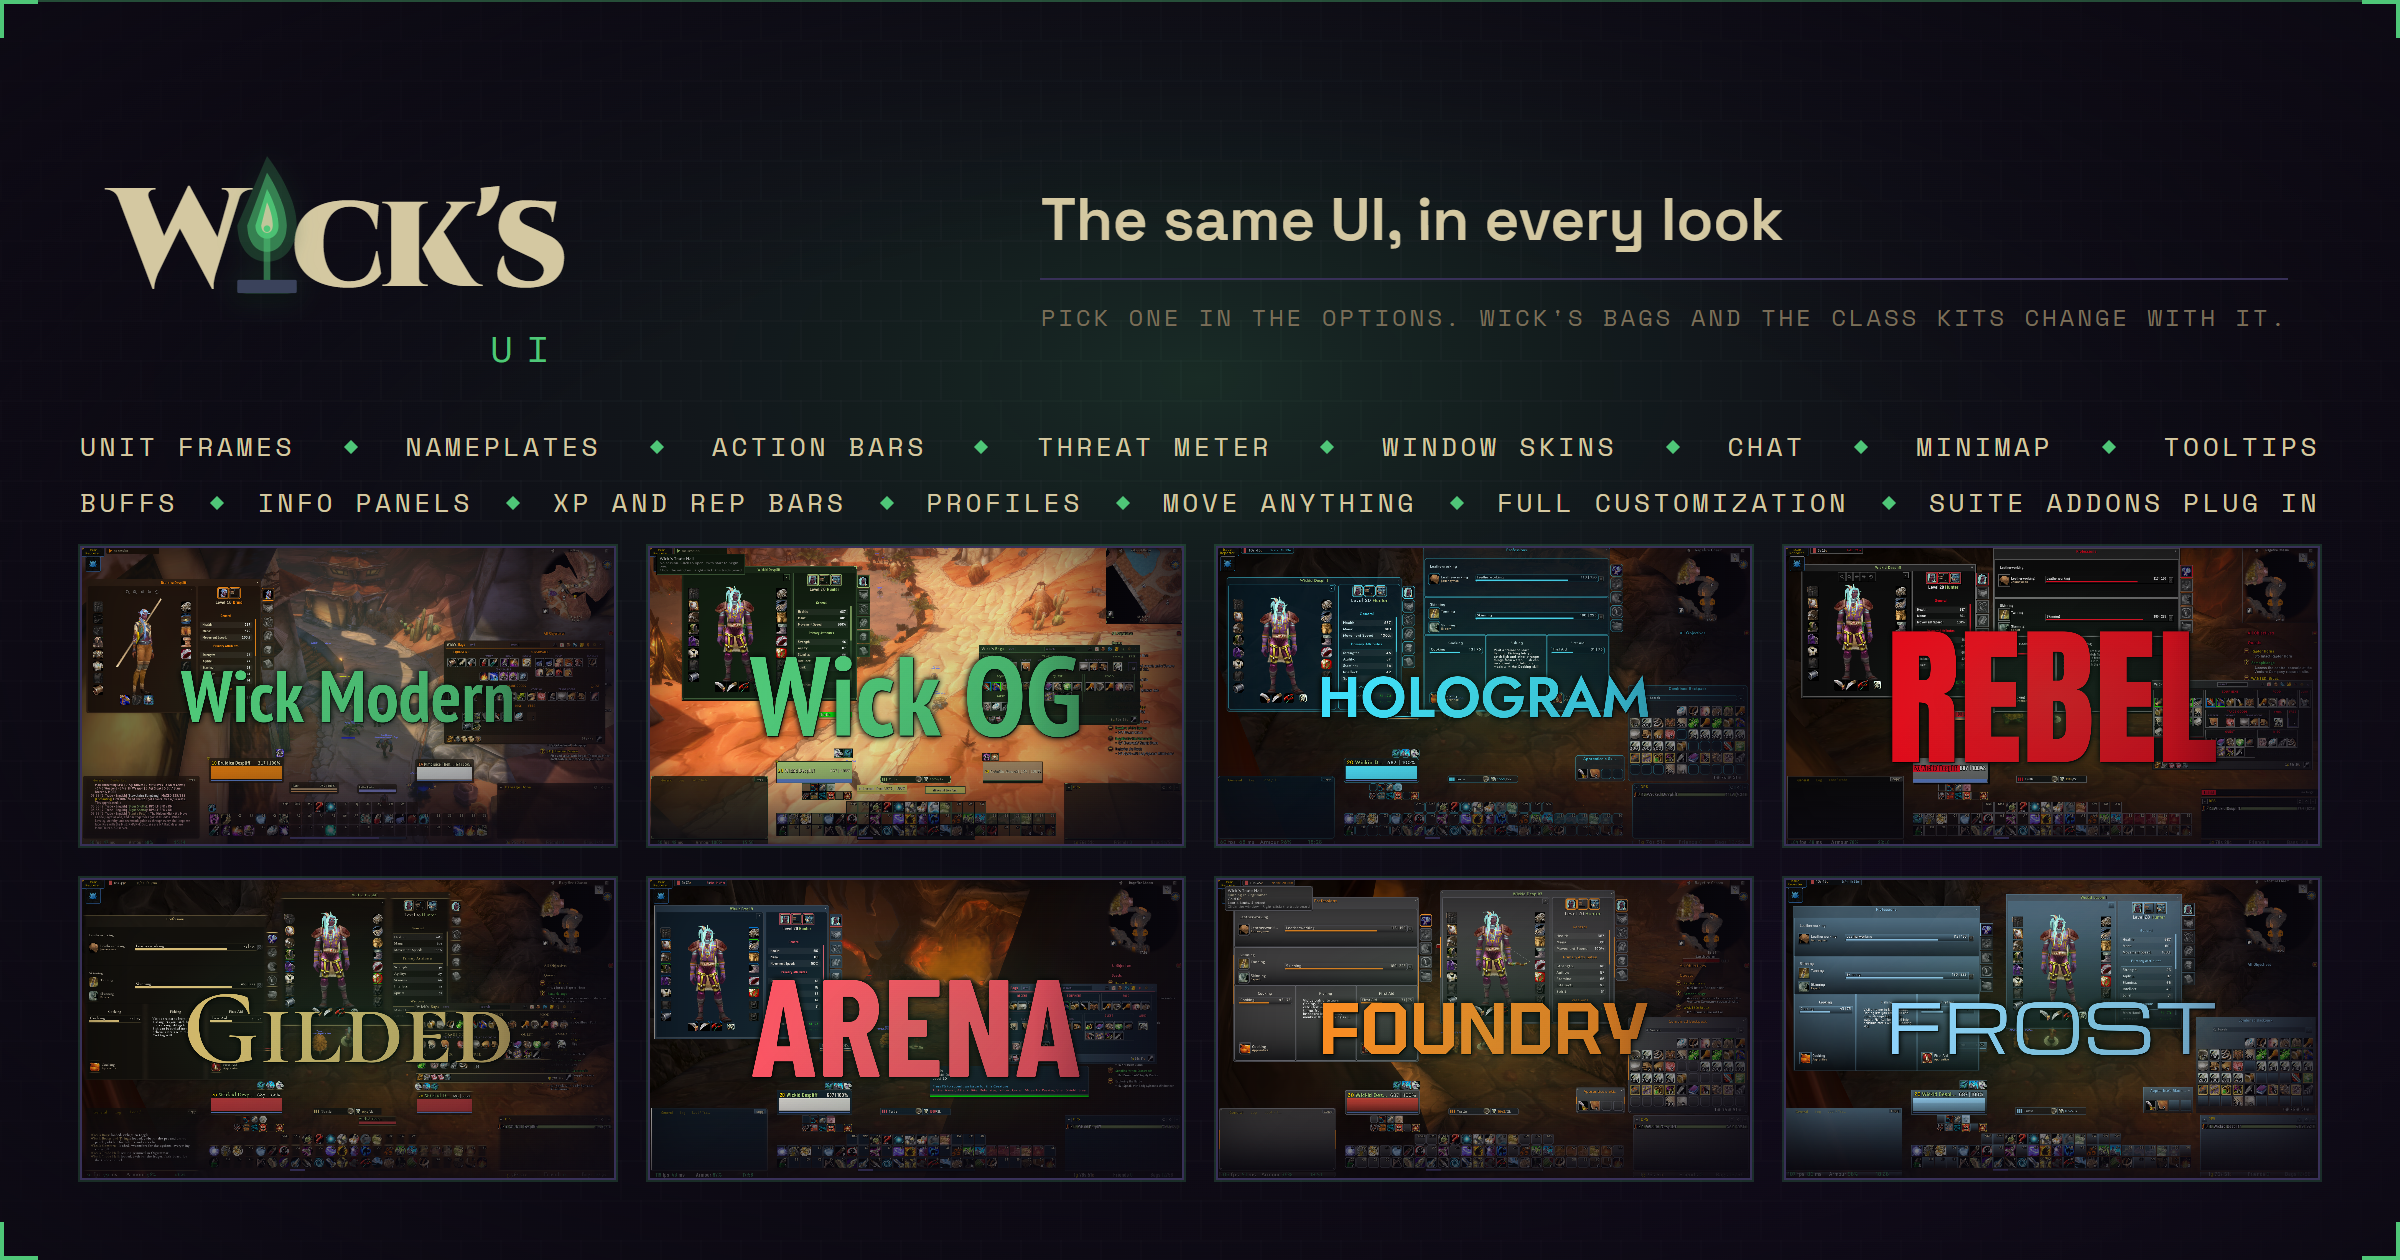
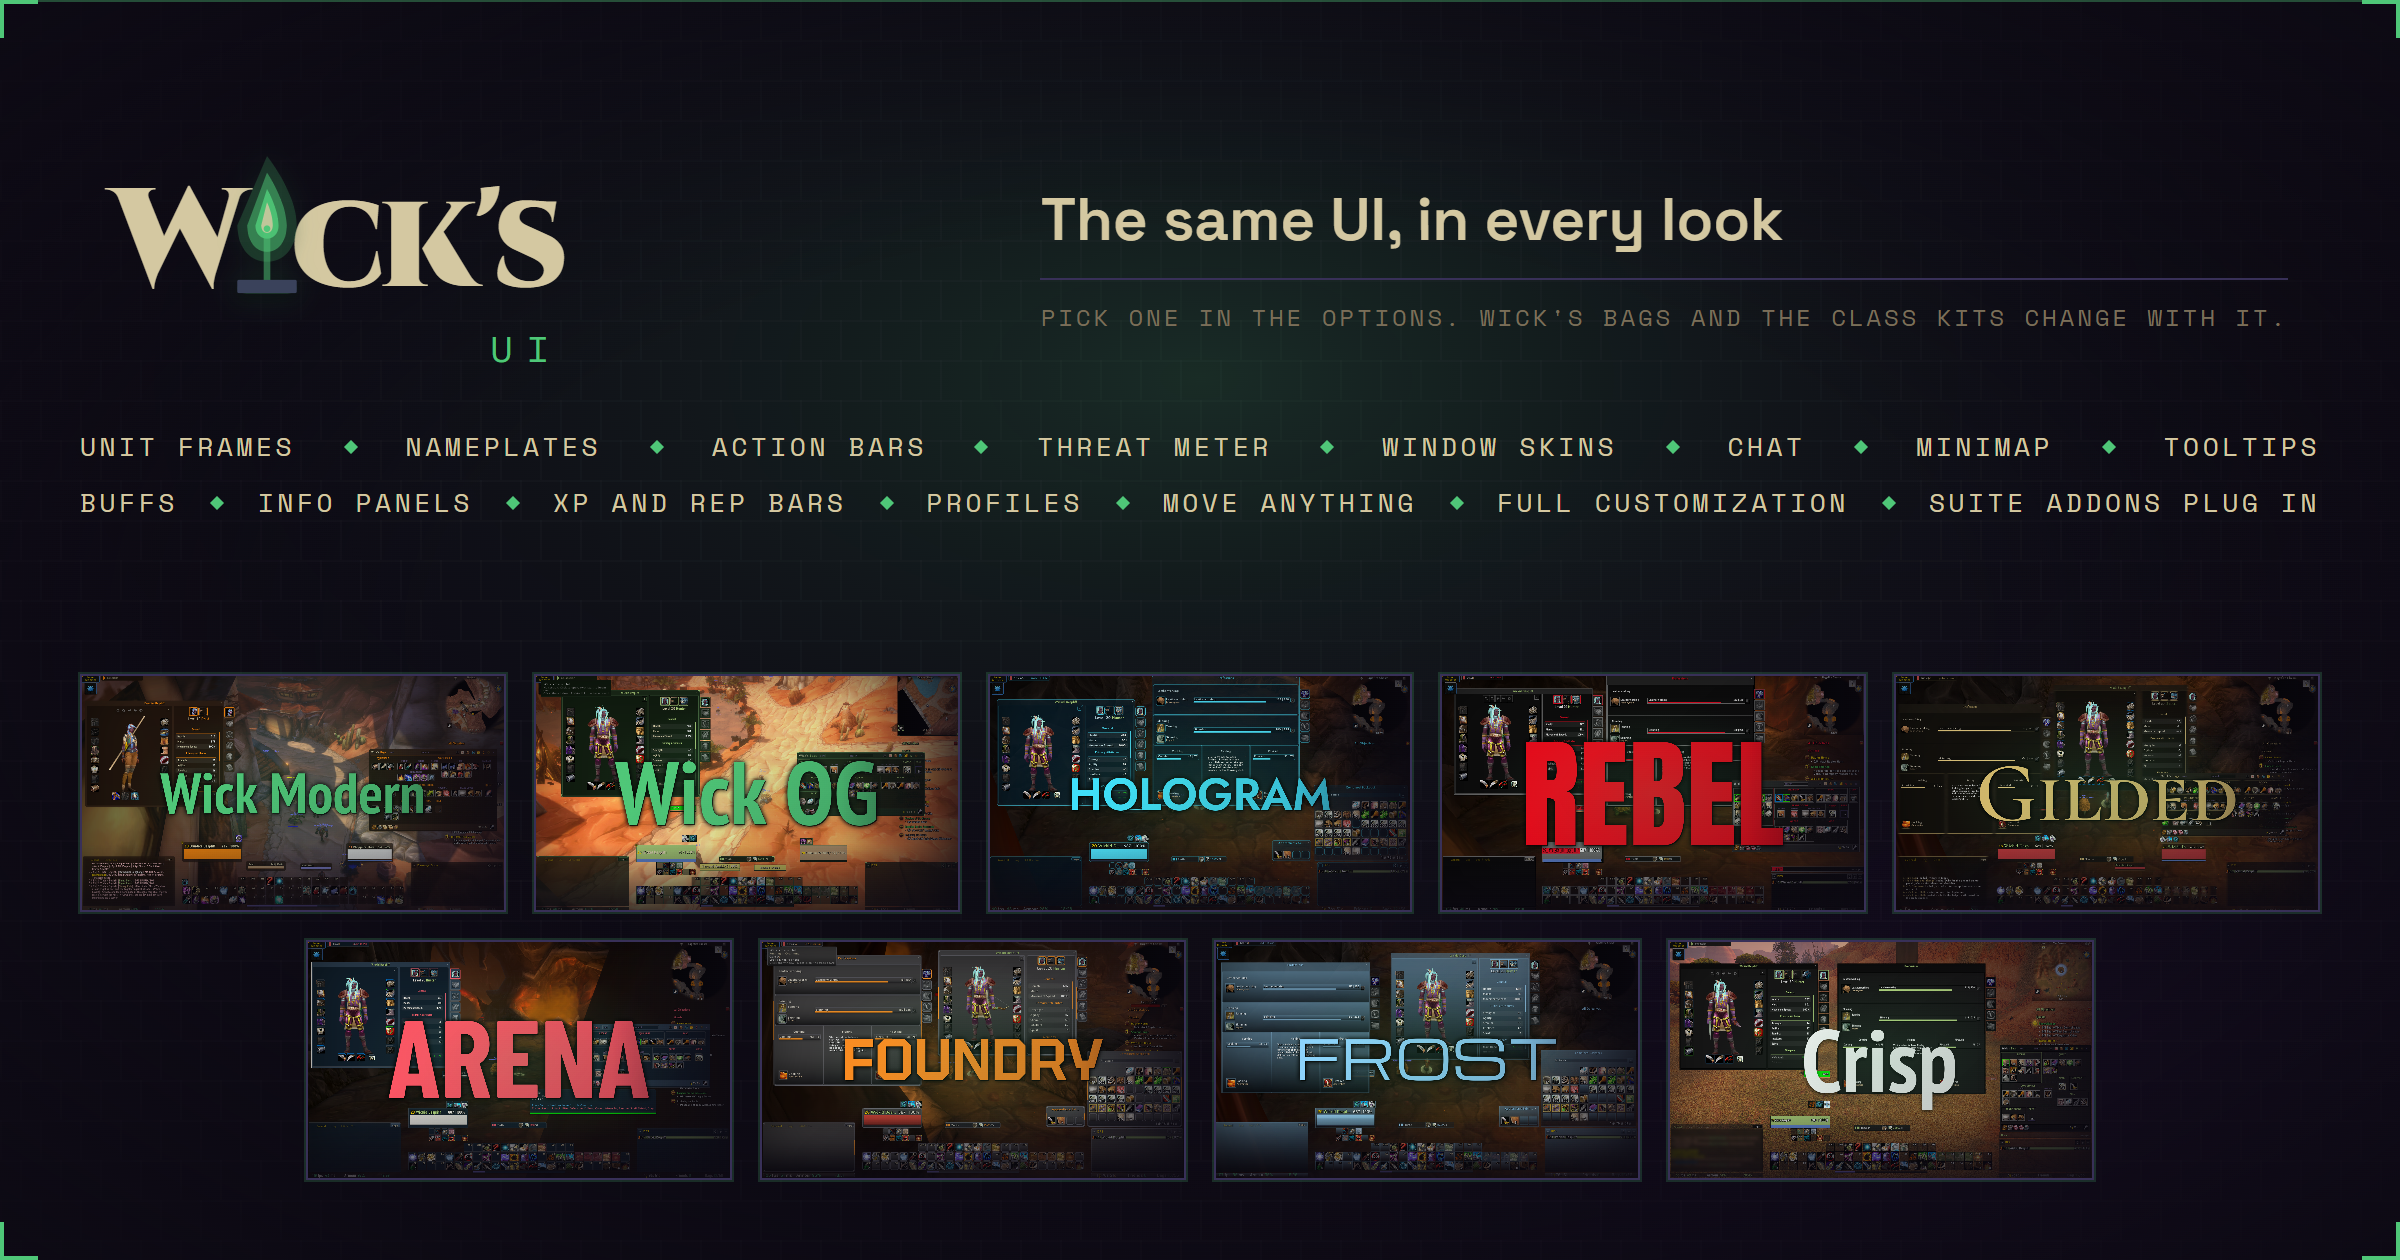
Wick's UI page: Crisp in the look switcher, nine looks in the copy and art

Changed region(s): [[0.0312, 0.4333, 0.9688, 0.9595], [0.0312, 0.8357, 0.0625, 0.8667]]

diff --git a/ui/index.html b/ui/index.html
@@ -12,17 +12,17 @@
 
 <meta property="og:type" content="website">
 <meta property="og:title" content="Wick's UI: the whole interface, in one look">
-<meta property="og:description" content="A full interface for WoW Forever. Eight looks to start from, full customization from there, and every part optional.">
+<meta property="og:description" content="A full interface for WoW Forever. Nine looks to start from, full customization from there, and every part optional.">
 <meta property="og:image" content="https://wicksmods.com/images/ui/social-2x.png">
 <meta property="og:image:width" content="2400">
 <meta property="og:image:height" content="1260">
-<meta property="og:image:alt" content="Wick's UI: the whole interface, in one look. Wick Modern, Rebel, Hologram and Gilded shown; eight looks, or your own.">
+<meta property="og:image:alt" content="Wick's UI: the whole interface, in one look. Wick Modern, Rebel, Hologram and Gilded shown; nine looks, or your own.">
 <meta property="og:url" content="https://wicksmods.com/ui/">
 <meta property="og:site_name" content="Wick's Mods">
 <meta name="twitter:card" content="summary_large_image">
 <meta name="twitter:site" content="@wicksmods">
 <meta name="twitter:title" content="Wick's UI: the whole interface, in one look">
-<meta name="twitter:description" content="A full interface for WoW Forever. Eight looks to start from, full customization from there.">
+<meta name="twitter:description" content="A full interface for WoW Forever. Nine looks to start from, full customization from there.">
 <meta name="twitter:image" content="https://wicksmods.com/images/ui/social-2x.png">
 <meta name="theme-color" content="#0D0A14">
 
@@ -182,7 +182,7 @@
   }
   .stage-wrap { position: relative; }
   .chips {
-    display: grid; grid-template-columns: repeat(8, 1fr); gap: 8px; margin-top: 26px;
+    display: grid; grid-template-columns: repeat(9, 1fr); gap: 8px; margin-top: 26px;
   }
   .chip {
     position: relative; overflow: hidden;
@@ -370,7 +370,7 @@
     .bento { grid-template-columns: repeat(2, 1fr); }
     .tile, .tile.w3, .tile.w4 { grid-column: span 1; }
     .tile.w4 { grid-column: span 2; }
-    .chips { grid-template-columns: repeat(4, 1fr); }
+    .chips { grid-template-columns: repeat(3, 1fr); }
     .steps { grid-template-columns: repeat(3, 1fr); row-gap: 28px; }
     .steps .rail { display: none; }
     .rules { grid-template-columns: 1fr; }
@@ -387,7 +387,7 @@
     .container, .hero, .topbar { padding-left: 16px; padding-right: 16px; }
     .wordmark { font-size: 60px; }
     .wordmark-sub { font-size: 18px; letter-spacing: 0.3em; }
-    .chips { grid-template-columns: repeat(2, 1fr); }
+    .chips { grid-template-columns: repeat(3, 1fr); }
     .chip { font-size: 15px; }
     .bento { grid-template-columns: 1fr; }
     .tile.w4 { grid-column: span 1; }
@@ -456,7 +456,7 @@
       <div class="name" id="lookName">Wick Modern</div>
       <div class="blurb" id="lookBlurb"></div>
     </div>
-    <p class="beyond"><span>Eight to start from.</span> Then change the colours, the fonts, the bar textures, the sizes, what every line of text says and where everything sits. The look you end up with is yours.</p>
+    <p class="beyond"><span>Nine to start from.</span> Then change the colours, the fonts, the bar textures, the sizes, what every line of text says and where everything sits. The look you end up with is yours.</p>
   </div>
 </section>
 
@@ -660,7 +660,7 @@
 
   <div class="steps" id="steps">
     <div class="rail"><i></i></div>
-    <div class="step" style="--i:0"><div class="dot">01</div><b>Pick a look</b><span>Any of the eight to start from. Change anything after.</span></div>
+    <div class="step" style="--i:0"><div class="dot">01</div><b>Pick a look</b><span>Any of the nine to start from. Change anything after.</span></div>
     <div class="step" style="--i:1"><div class="dot">02</div><b>Class colours</b><span>The game's own, or the Classic era set.</span></div>
     <div class="step" style="--i:2"><div class="dot">03</div><b>Scale</b><span>Pixel perfect, or the game's own.</span></div>
     <div class="step" style="--i:3"><div class="dot">04</div><b>Your bags</b><span>With Wick's Bags on, which bags B opens.</span></div>
@@ -772,6 +772,8 @@
       blurb: 'Industrial: chamfered steel frames, rivets, orange hazard marks, angular capitals.' },
     { id: 'frost',    name: 'Frost',       color: '#8FD3FF', font: "'Michroma', sans-serif", upper: true, small: true,
       blurb: 'Cold and sparse: see-through panels, hairlines in the icy accent, stark wide capitals over a narrow face.' },
+    { id: 'crisp',    name: 'Crisp',       color: '#EDEDED', font: "'PT Sans Narrow', sans-serif",
+      blurb: 'Clean cut: see-through dark grey, one black pixel round everything, square corners, <b>your class colour</b> as the accent.' },
   ];
   const DUR = 5200;
   const reduce = window.matchMedia('(prefers-reduced-motion: reduce)').matches;

diff --git a/index.html b/index.html
@@ -414,7 +414,7 @@
        srcset="images/ui/looks.png 1200w, images/ui/looks-2x.png 2400w"
        sizes="(max-width: 1140px) calc(100vw - 56px), 1084px"
        width="1200" height="630"
-       alt="Wick's UI: the same interface in eight looks, Wick Modern, Wick OG, Hologram, Rebel, Gilded, Arena, Foundry and Frost. Unit frames, nameplates, action bars, threat meter, window skins, chat, minimap, tooltips, buffs, info panels, XP and rep bars, profiles, move anything, full customization, and suite addons plug in.">
+       alt="Wick's UI: the same interface in nine looks, Wick Modern, Wick OG, Hologram, Rebel, Gilded, Arena, Foundry, Frost and Crisp. Unit frames, nameplates, action bars, threat meter, window skins, chat, minimap, tooltips, buffs, info panels, XP and rep bars, profiles, move anything, full customization, and suite addons plug in.">
   </a>
   <div class="showcase-actions">
     <a href="/ui/" class="btn primary">Take the tour &rarr;</a>
@@ -453,7 +453,7 @@
       </div>
       <div class="card-meta">
         <div class="card-name"><span class="apo">Wick's</span> UI</div>
-        <div class="card-tagline">The whole interface, in one look. Action bars, unit frames, nameplates, chat, the minimap, a threat meter and the game's own windows. Eight looks to start from, full customization from there, and every part optional.</div>
+        <div class="card-tagline">The whole interface, in one look. Action bars, unit frames, nameplates, chat, the minimap, a threat meter and the game's own windows. Nine looks to start from, full customization from there, and every part optional.</div>
         <div class="card-slash">/wui</div>
         <div class="card-actions"><a href="https://www.curseforge.com/wow/addons/wicks-ui" class="card-btn cf">CurseForge</a>
           <a href="/ui/" class="card-btn">Tour</a></div>
